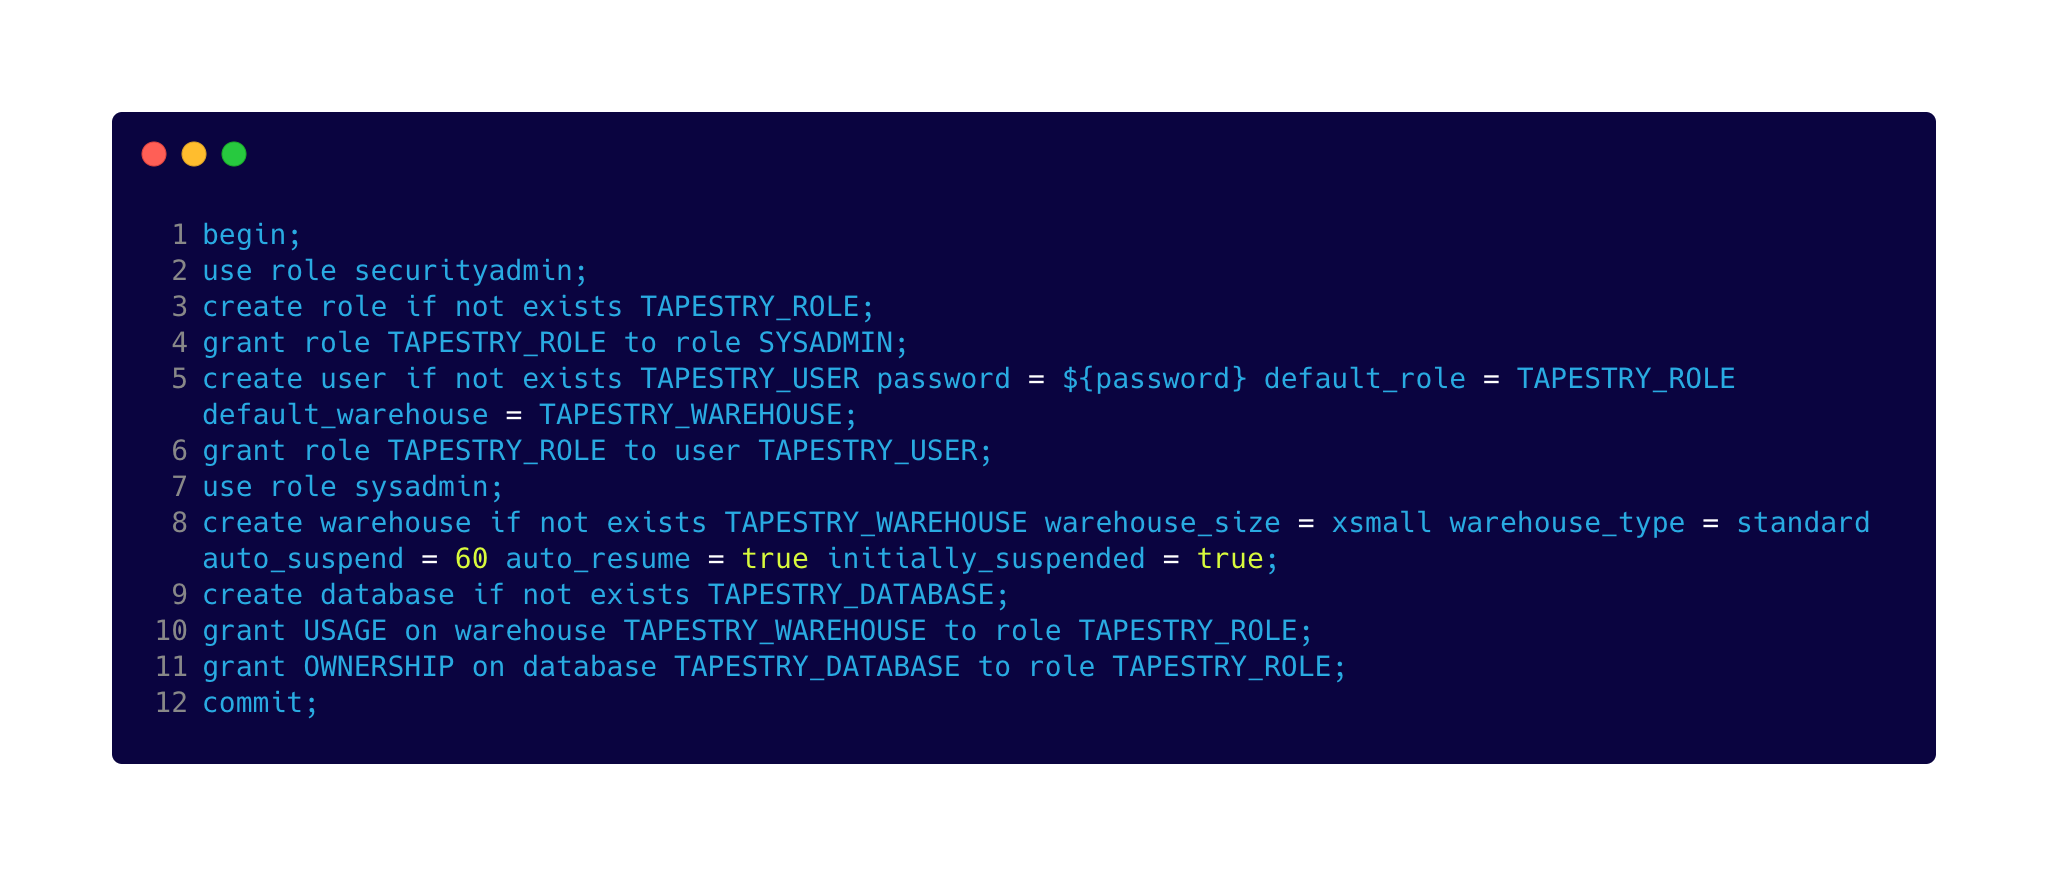
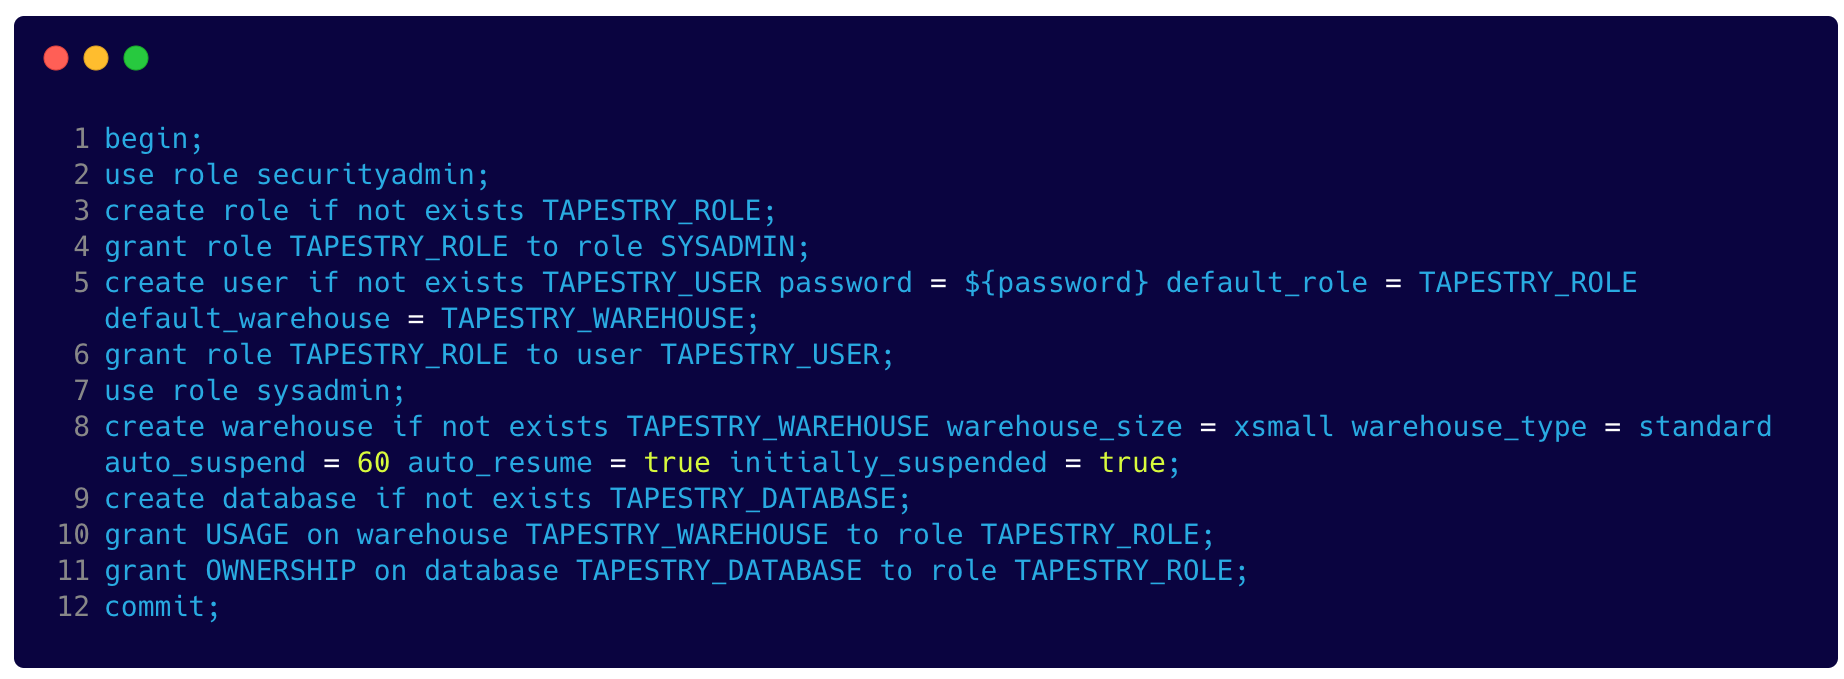
remove padding from CLI images

diff --git a/case-study.html b/case-study.html
@@ -946,7 +946,7 @@
           to route network traffic to your cluster.
         </p>
         <figure>
-          <img src="assets/images/demo/kickstart_grouparoo_v3.gif">
+          <img src="assets/images/demo/kickstart-grouparoo_v3.gif">
           <figcaption>Setup and provisioning of data syncing stack from the command line.</figcaption>
         </figure>
         <br />
@@ -1195,6 +1195,8 @@
 
         <h3>6.2 Storage Phase Challenge</h3>
         <br />
+        <h4>Automating Warehouse Setup</h4>
+        <br />
         <p>
           One interesting challenge we encountered when working with Snowflake was how to run SQL statements for a new
           user once they input their credentials. We needed to run a sequence of <em>34 commands</em> to set up the
@@ -1203,8 +1205,10 @@
         <br />
         <figure>
           <img src="assets/images/challenges/Example_SQL_Commands.png">
+          <p></p>
           <figcaption>Example SQL statements required for warehouse setup.</figcaption>
         </figure>
+        <br/>
         <h4>Node.js SDK for Snowflake</h4>
         <p>
           We found that Snowflake provides a Node.js SDK, which would allow us to communicate with the Snowflake
@@ -1248,6 +1252,7 @@
         <br />
         <h3>6.3 Syncing Phase Challenge</h3>
         <br />
+        <h4>Injecting Secrets at Runtime</h4>
         <p>
           One particularly interesting challenge when deploying Grouparoo was determining how to inject sensitive user
           inputs, like API keys or passwords, into the Docker container for Grouparoo’s web application. For Grouparoo,

diff --git a/index.html b/index.html
@@ -65,7 +65,7 @@
             </a>
           </div>
         </div>
-        <div data-w-id="c8b52af7-58af-18c7-65ce-aa2950b6601f" class="hero-images-container"><img src="assets/images/overview-web.gif" alt="" class="hero-image-left" style="will-change: transform; transform: translate3d(0px, 0px, 0px) scale3d(1, 1, 1) rotateX(0deg) rotateY(0deg) rotateZ(0deg) skew(0deg, 0deg); transform-style: preserve-3d;"><img src="assets/images/dashboard.png" alt="" class="hero-image-right"></div>
+        <div data-w-id="c8b52af7-58af-18c7-65ce-aa2950b6601f" class="hero-images-container"><img src="assets/images/overview-web.gif" alt="" class="hero-image-left" style="will-change: transform; transform: translate3d(0px, 0px, 0px) scale3d(1, 1, 1) rotateX(0deg) rotateY(0deg) rotateZ(0deg) skew(0deg, 0deg); transform-style: preserve-3d;"><img src="assets/images/demo/tap_ui_airbyte_v2.png" alt="" class="hero-image-right"></div>
       </div>
     </div>
     <div class="section">
